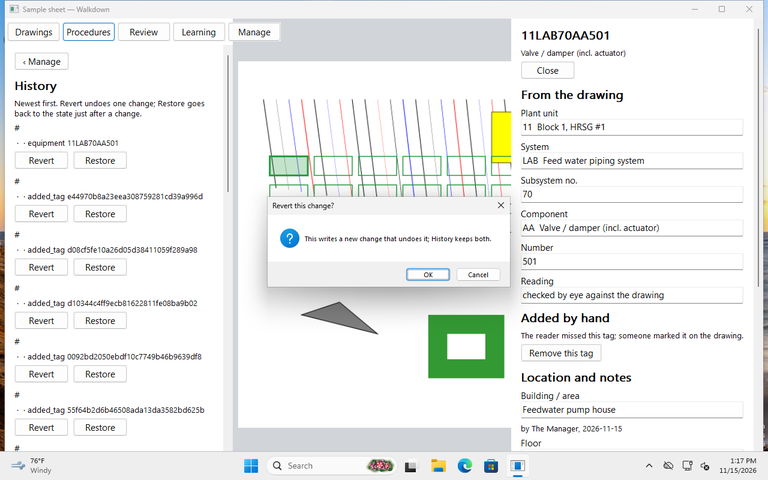
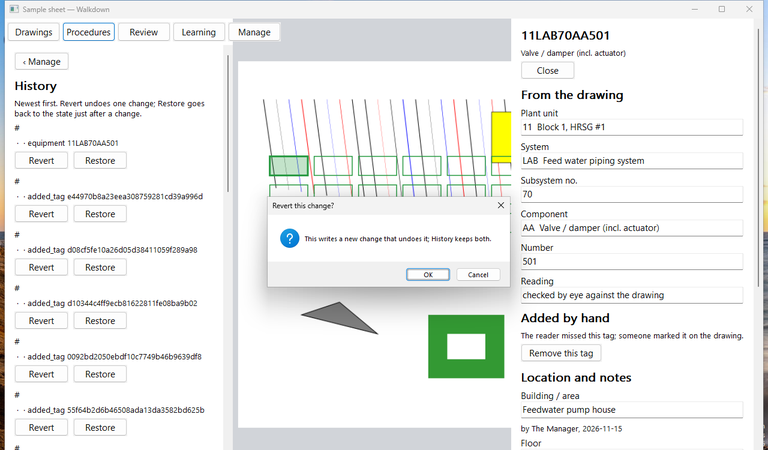
UI audit: review fixes (taskbar cropped from Windows shots, an emulator-only guard, headless-only gsettings, temp folders removed, notes on X1, X2 and Windows K1)

diff --git a/tools/ui_audit/gnome_audit.py b/tools/ui_audit/gnome_audit.py
@@ -201,6 +201,8 @@ class Audit(test_gnome.Plant):
                 'hcdark': {'ADW_DEBUG_COLOR_SCHEME': 'prefer-dark', 'ADW_DEBUG_HIGH_CONTRAST': '1'},
                 'large': {'ADW_DEBUG_COLOR_SCHEME': 'prefer-light'},
                 'noanim': {'ADW_DEBUG_COLOR_SCHEME': 'prefer-light'}}
+        # gsettings below must reach headless.sh's private settings, never the desktop's
+        assert os.environ.get('XDG_CONFIG_HOME', '').endswith('/home/config'), 'run under apps/gnome/e2e/headless.sh'
         for mode in MODES:
             if mode == 'large':
                 subprocess.run(['gsettings', 'set', 'org.gnome.desktop.interface', 'text-scaling-factor', '1.25'])

diff --git a/tools/ui_audit/android_audit.py b/tools/ui_audit/android_audit.py
@@ -6,6 +6,7 @@ import os, re, subprocess, sys, time, json
 REPO = os.environ.get('KKS_REPO') or os.path.dirname(os.path.dirname(os.path.dirname(os.path.abspath(__file__))))
 sys.path.insert(0, REPO + '/android/app2/e2e')
 import adbui as ui  # noqa
+assert os.environ.get('ANDROID_SERIAL', '').startswith('emulator-'), 'set ANDROID_SERIAL=emulator-…: never a real phone'
 OUT = os.environ.get('KKS_AUDIT_OUT', os.path.join(os.environ.get('TMPDIR', '/tmp'), 'ui-audit-android'))
 os.makedirs(OUT, exist_ok=True)
 DESTRUCTIVE = re.compile(r'^(Delete|Remove|Discard|Sign out|Leave|Reject|Revert|Restore|Withdraw|Refuse|Not a tag|Clear removed)\b', re.I)

diff --git a/tools/ui_audit/windows_audit.py b/tools/ui_audit/windows_audit.py
@@ -10,6 +10,7 @@ sys.argv = ['x', VMIP]
 sys.path.insert(0, REPO + '/apps/windows/e2e')
 import test_windows as tw  # noqa
 OUT = os.environ.get('KKS_AUDIT_OUT', os.path.join(os.environ.get('TMPDIR', '/tmp'), 'ui-audit-windows'))
+os.makedirs(OUT, exist_ok=True)
 DESTRUCTIVE = re.compile(r'^(Delete|Remove|Discard|Sign out|Leave|Reject|Revert|Restore|Withdraw|Refuse|Not a tag|Clear removed)\b', re.I)
 vm = tw.vm
 

diff --git a/tools/ui_audit/web_probe3.py b/tools/ui_audit/web_probe3.py
@@ -151,3 +151,4 @@ finally:
     try: server.wait(10)
     except Exception: server.kill()
     print('server stopped', server.pid)
+    shutil.rmtree(d, ignore_errors=True)

diff --git a/docs/ui-audit/2026-11.md b/docs/ui-audit/2026-11.md
@@ -141,6 +141,12 @@ the phone layout on the desktop standing in for the phone (section 2).
 
 Notes on single cells:
 
+- **X1 on the web:** pass 1 left it Not checked; it is a Fail because the same count is named three ways across the
+  clients (web, GNOME and Windows "Readings to review", Android "To review", GNOME's queue "Review queue"): a name
+  that differs between clients fails on each of them (G20).
+- **X2:** N/A everywhere: it judges a change that adds a feature, not a state.
+- **K1 on Windows:** from code (pass 2: course text in a dark contrast theme, 1.30:1); it wants a screenshot to
+  confirm.
 - **K5 in Plant:** the HUD's status, time and distance labels over the 3D view have a thick black outline instead of
   a backing panel. That probably holds the contrast, but the rule's words ask for a panel; only the user can waive it
   (PLANT2-12).

diff --git a/docs/ui-audit/2026-11/plant-android.md b/docs/ui-audit/2026-11/plant-android.md
@@ -6,7 +6,7 @@
   `vm.lock`. `adb install -t ~/kks-work/build/plant-w2-debug.apk` (a test-key debug build; its only native library is
   `lib/arm64-v8a/libgodot_android.so`) failed: `INSTALL_FAILED_NO_MATCHING_ABIS: Failed to extract native libraries,
   res=-113`. The arm64 build can't run on this emulator.
-- Note 9: not used. `~/kks-work/bin/phone-window` said "user unavailable until Sun 15:42" when checked (12:32) and the
+- Note 9: not used. The phone window was closed when checked, and the
   emulator and Windows work ended at 13:27, before the window opened. The Honor was not touched.
 - So nothing of Plant on Android was run. Plant's phone layout on the desktop (`tests/mimic_shots.gd --phone`) is the
   stand-in the policy names (§4 limits); that is the desktop helper's part, not repeated here.
